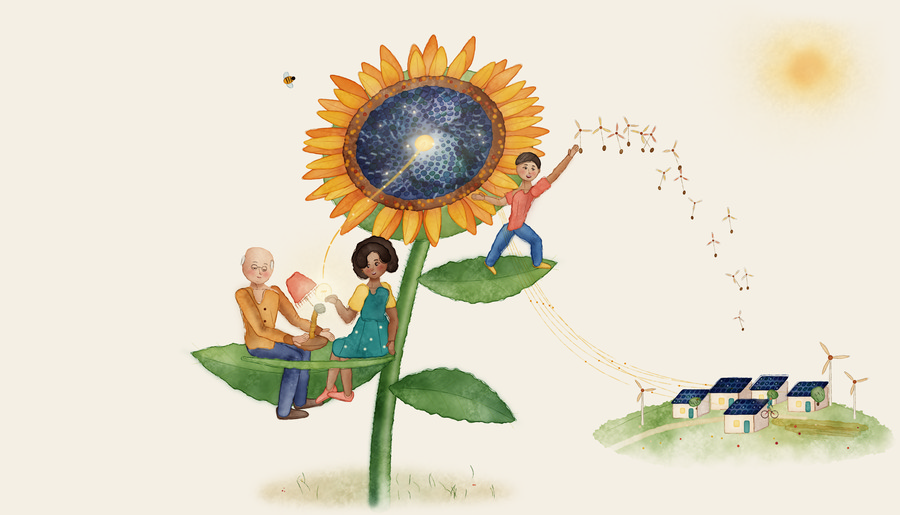
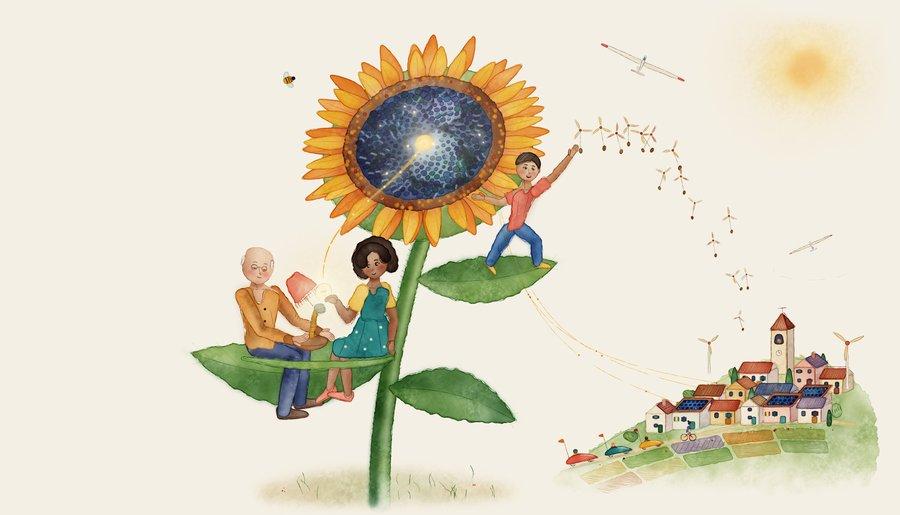
Calendario Arte: June Design 4 — a diverse hill village, velomobiles and gliders (evaluator 8.5/10)
Claude-Session: https://claude.ai/code/session_01WLMKSDKQCN5ewxoWJ2uMJK

diff --git a/src/data/calendarioArte.ts b/src/data/calendarioArte.ts
@@ -329,7 +329,7 @@ export const CALENDARIO_ARTE_POR_DEFECTO: ContenidoMes[] = [
     "dias": [
       "Girasol solar: el Sol da más energía de la que usamos.",
       "Hoy: cuenta tus aparatos en espera. ¿Hace falta?",
-      "Día de la Bicicleta: hoy pedalea, como en el pueblo.",
+      "Día de la Bicicleta: pedalea, en bici o en velomóvil.",
       "La IA puede errar con aplomo: contrasta lo que dice.",
       "Día del Medio Ambiente: ¿qué energía mueve tu día?",
       "La energía más limpia y barata es la que no se consume.",
@@ -354,7 +354,7 @@ export const CALENDARIO_ARTE_POR_DEFECTO: ContenidoMes[] = [
       "Autoconsumo: con placas, tu tejado da parte de tu luz.",
       "Hoy: pasa una tarde sin pantallas. ¿Qué descubres?",
       "La IA puede heredar los sesgos de los datos humanos.",
-      "Un buen aislamiento ahorra mucha energía en casa.",
+      "Planeador: sube sin motor, en aire que el sol calienta.",
       "¿Qué tecnología te mejora la vida y cuál la complica?",
       "Hoy: elige un gesto de ahorro para todo el verano."
     ],

diff --git a/design/calendario-arte/generadores/diseno4/mes-06-d.py b/design/calendario-arte/generadores/diseno4/mes-06-d.py
@@ -654,9 +654,9 @@ def posa(x):
 
 
 # a row along the lower road, heading up to the village behind a bicycle
-velomovil(*posa(958), 54, '#e8735e', '#8a5a3a', '#2f8f92', ropa='#f2d36b')
-velomovil(*posa(1022), 46, '#2f8f92', '#f0c8a0', '#f2b630', ropa='#c33c4e')
-velomovil(*posa(1080), 42, '#f2b630', '#5a3a2a', '#c33c4e', ropa='#4f9c9a', banderin='#c33c4e')
+velomovil(*posa(962), 48, '#e8735e', '#8a5a3a', '#2f8f92', ropa='#f2d36b')
+velomovil(*posa(1022), 41, '#2f8f92', '#f0c8a0', '#f2b630', ropa='#c33c4e')
+velomovil(*posa(1076), 37, '#f2b630', '#5a3a2a', '#c33c4e', ropa='#4f9c9a', banderin='#c33c4e')
 # and someone still cycles the ordinary way
 cx_, cy_ = posa(1136)
 cy_ -= 2

diff --git a/memory/08_CHANGELOG.md b/memory/08_CHANGELOG.md
@@ -10776,3 +10776,6 @@ Eugenio: «Unifica los selectores de vehículos… deja solo el de arriba y deja
   - Aviso para el ilustrador: abril día 15 promete «dos setas junto a la encina» que no están dibujadas; la frase enlaza con el micelio dorado.
   - Días enlazados con el Diseño 4 en julio (6,2→6,9) y agosto (6,5→7,2): el albaricoquero, el tapial, el tejado verde, la fuente que pasa de mano en mano; la hamaca, la jarra, las neuronas doradas de la copa (86.000 millones). Datos nuevos con fuente (ONU-Hábitat 2.800 millones sin vivienda adecuada; OMS 1 de cada 6 se siente sola; más de 1.000 millones con un trastorno mental; Lancet 2024 casi la mitad de las demencias se podría retrasar). El 024 y el 112 siguen igual. Con esto, los doce meses tienen los días enlazados con su ilustración.
   - Producción: junio se imprimía con el Diseño 2 (había un `imagen` guardado el 5 de noviembre). Cambiado desde la web con «Imprimir el diseño 4»; ahora los doce meses imprimen el Diseño 4.
+  - Junio, Diseño 4: el pueblo de la colina pasa de cinco casitas blancas iguales a un pueblo diverso (Eugenio, con una imagen de referencia de un pueblo en colina): fachadas blancas, ocres, salmón, albero y azul pálido; tejados de teja, pizarra, morados y tres solares (la placa ahora va dentro de un tejado de teja); un campanario con veleta, cipreses, balcones con flores y campos en mosaico. Por el camino, tres velomóviles en fila (carcasa baja, ruedas de radios, cabeza y hombros fuera, mástil con banderín) detrás de un ciclista; en el cielo, dos planeadores, uno en viraje hacia el sol y otro girando sobre la colina. El pueblo se ha movido 50 unidades a la izquierda para dejar aire al margen. Evaluador independiente: 7,5 en la primera versión, 8,5 tras sus arreglos.
+  - Días de junio enlazados con lo nuevo: el día 3 pasa a «Día de la Bicicleta: pedalea, en bici o en velomóvil.» y el 28 a «Planeador: sube sin motor, en aire que el sol calienta.» (sustituye a «Un buen aislamiento ahorra mucha energía en casa», que repetía la idea del día 6).
+  - Misma URL de imagen (`mes-06-d.jpg`), porque junio guarda esa URL en producción como la imagen que se imprime. Quien la tuviera en caché del navegador o de Cloudflare puede ver la antigua unas horas.
